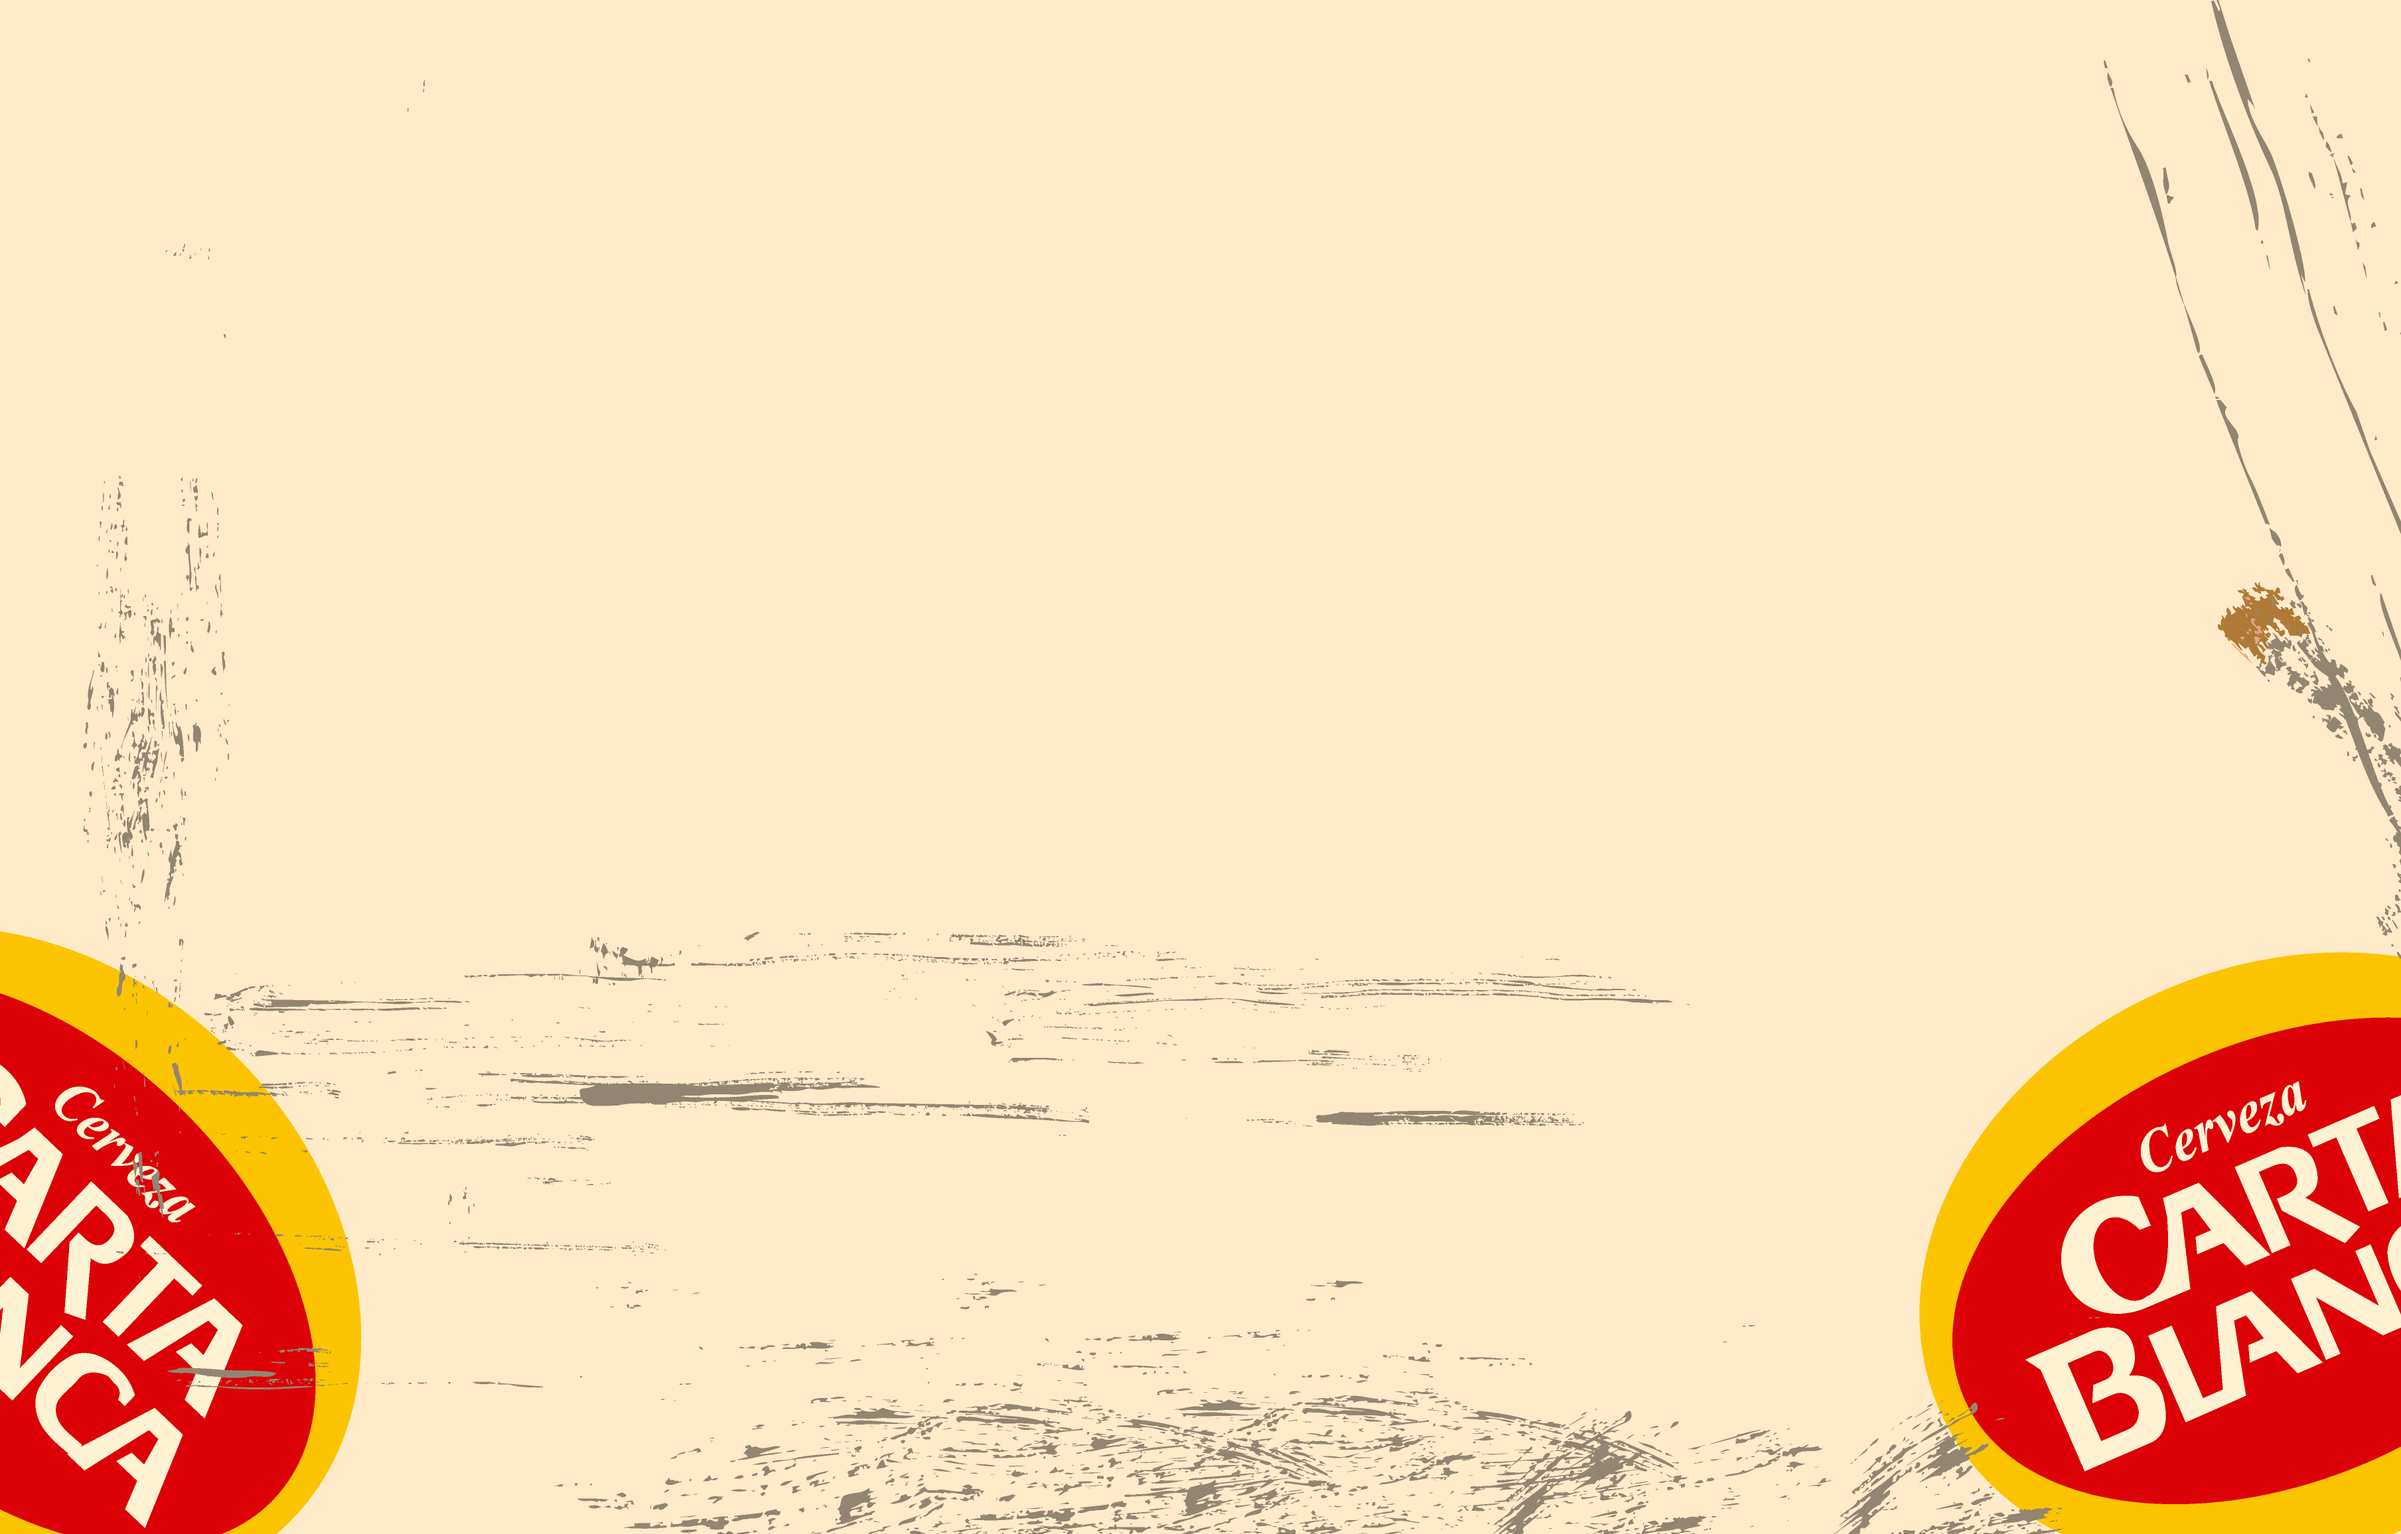
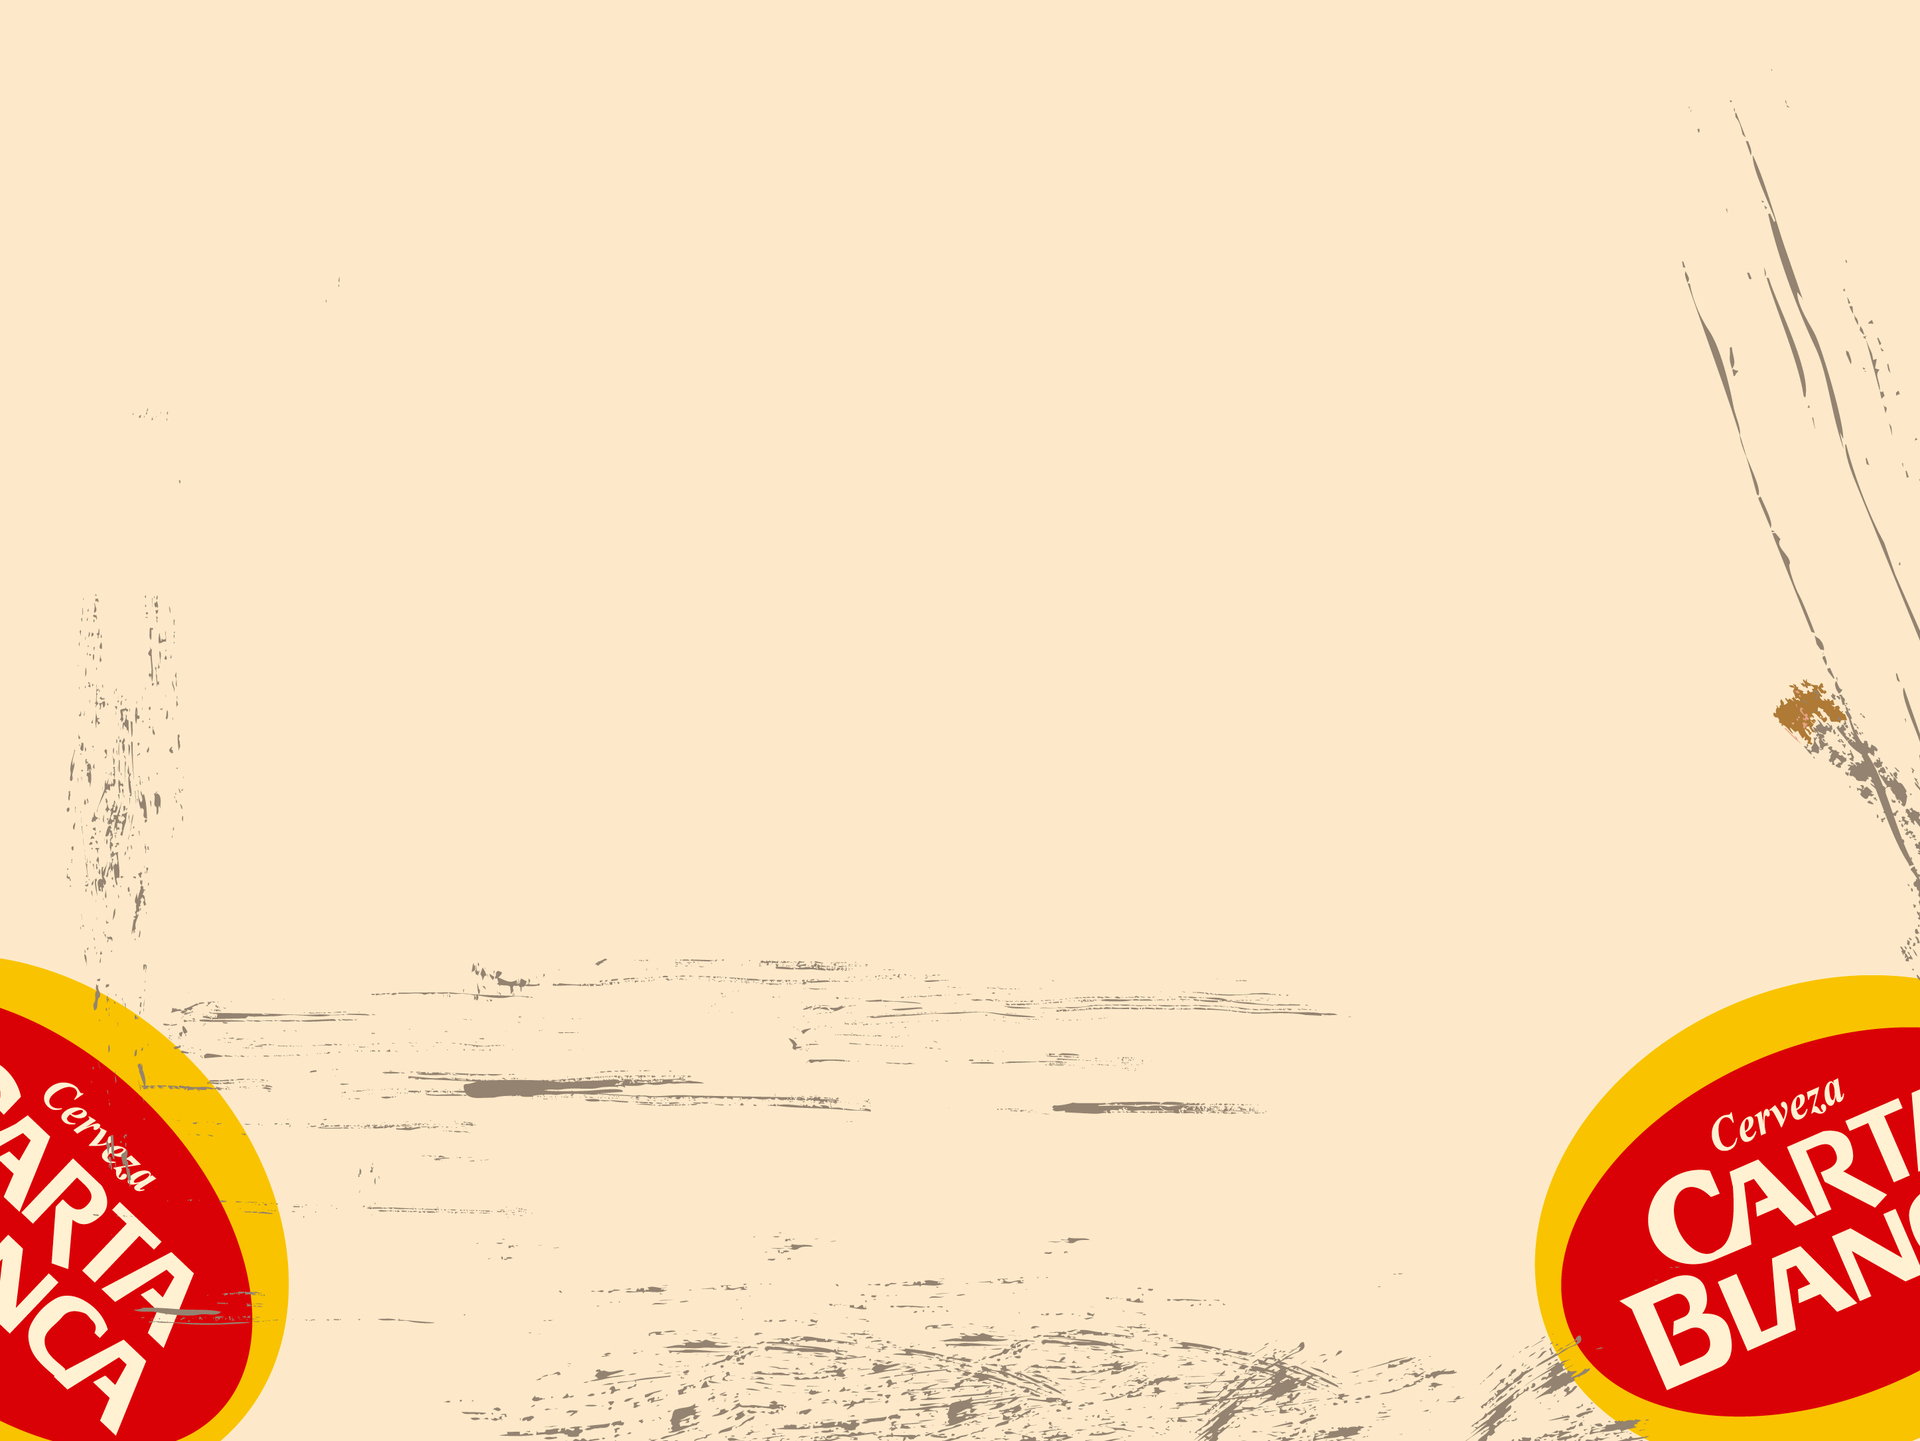
Ajustes de diseño para el index

diff --git a/App/Resources/css/style.css b/App/Resources/css/style.css
@@ -1,6 +1,8 @@
 body
 {
-	background:#EEEEEE;
+	background-image: url("../img/table_havana.png");
+    background-repeat: no-repeat;
+    background-size: contain;
 }
 .container
 {
@@ -8,26 +10,64 @@ body
 }
 #header
 {
-	background:#f0c14b;
-	border:1px solid #a88734;
-	padding:10px;
-	text-align:center;
-	font-size:15px;
-	font-weight:bold;
+	padding:0;
+    margin: auto;
+}
+#logoHavanaGames
+{
+    background: transparent url(/img/havanagames.png) no-repeat 0 0;
+    background-size: contain;
+    width:400px;	   
+    height:360px; 
+    display: block;
+    margin: 0 auto 0 auto;
+    padding: 0 0 0 0;
 }
 #main
 {
-	border:1px solid #a88734;
 	padding:10px;
 }
 #footer
 {
-	background:#f0c14b;
 	border:1px solid #a88734;
-	padding:10px;
-	text-align:center;
-	font-size:15px;
-	font-weight:bold;
+}
+.clip
+{
+    cursor: pointer;
+    border-radius: 200px 200px 200px 200px;
+    -moz-border-radius: 200px 200px 200px 200px;
+    -webkit-border-radius: 200px 200px 200px 200px;
+    border: 4px solid #FFFFFF;
+    -webkit-box-shadow: 2px 2px 5px -1px rgba(0,0,0,0.75);
+    -moz-box-shadow: 2px 2px 5px -1px rgba(0,0,0,0.75);
+    box-shadow: 2px 2px 5px -1px rgba(0,0,0,0.75);
+    float: left;
+    margin: 0 0 0 20px;
+    padding: 0 0 0 0;
 }
 
+
+/* Retina-specific stuff here */ /* Retina-specific stuff here */ /* Retina-specific stuff here */ /* Retina-specific stuff here */
+/* Retina-specific stuff here */ /* Retina-specific stuff here */ /* Retina-specific stuff here */ /* Retina-specific stuff here */
+@media
+only screen and (-webkit-min-device-pixel-ratio: 2),
+only screen and (   min--moz-device-pixel-ratio: 2),
+only screen and (     -o-min-device-pixel-ratio: 2/1),
+only screen and (        min-device-pixel-ratio: 2),
+only screen and (                min-resolution: 192dpi),
+only screen and (                min-resolution: 2dppx)  { 
+/* Retina-specific stuff here */ /* Retina-specific stuff here */ /* Retina-specific stuff here */ /* Retina-specific stuff here */
+#logoHavanaGames 
+    {
+        background: transparent url(/img/havanagames@2x.png) no-repeat 0 0;
+	    background-size: contain;
+	    width:400px;	   
+        height:360px;  
+	    display: block
+    }
+
+
+}
+/* Retina-specific stuff here */ /* Retina-specific stuff here */ /* Retina-specific stuff here */ /* Retina-specific stuff here */
+/* Retina-specific stuff here */ /* Retina-specific stuff here */ /* Retina-specific stuff here */ /* Retina-specific stuff here */
 

diff --git a/App/index.html b/App/index.html
@@ -6,26 +6,30 @@
 		<link type="text/css" rel="stylesheet" href="/css/style.css"></link>
 	</head>
 	<body>
-		<div class="container" ng-app="DominoApp" ng-cloak>
-			<div id="header" class="row">
-				Header
+		<div class="col-lg-12" ng-app="DominoApp" ng-cloak>
+			<div id="header" class="col-xs-12">
+                <div id="logoHavanaGames"></div>
 			</div>
 			<div id="main" class="row" ng-controller="AvatarController">
-				Body
-				<div>
-					Avatars
+                <div id="newGamePlay">
+                    
+                    
+                </div>
+                <div id="chooseNickname" class="ChooseContanier">
+                
+                </div>                
+				<div id="chooseAvatar" class="ChooseContanier">
 					<div ng-repeat="avatar in modelAvatars">
-						<img src="/img/{{avatar.Photo}}.jpg" alt="{{avatar.Name}}" ng-cloak>
+						<img class="clip" src="/img/{{avatar.Photo}}.jpg" height="62" width="62" alt="{{avatar.Name}}" ng-cloak>
 						<span>{{avatar.Name}}</span>
 					</div>
 				</div>
 				<div>
-					Botones
 					<button ng-click="Play()">Jugar!</button>
 				</div>
 			</div>
 			<div id="footer" class="row">
-				Footer
+			
 			</div>
 		</div>
 	</body>
